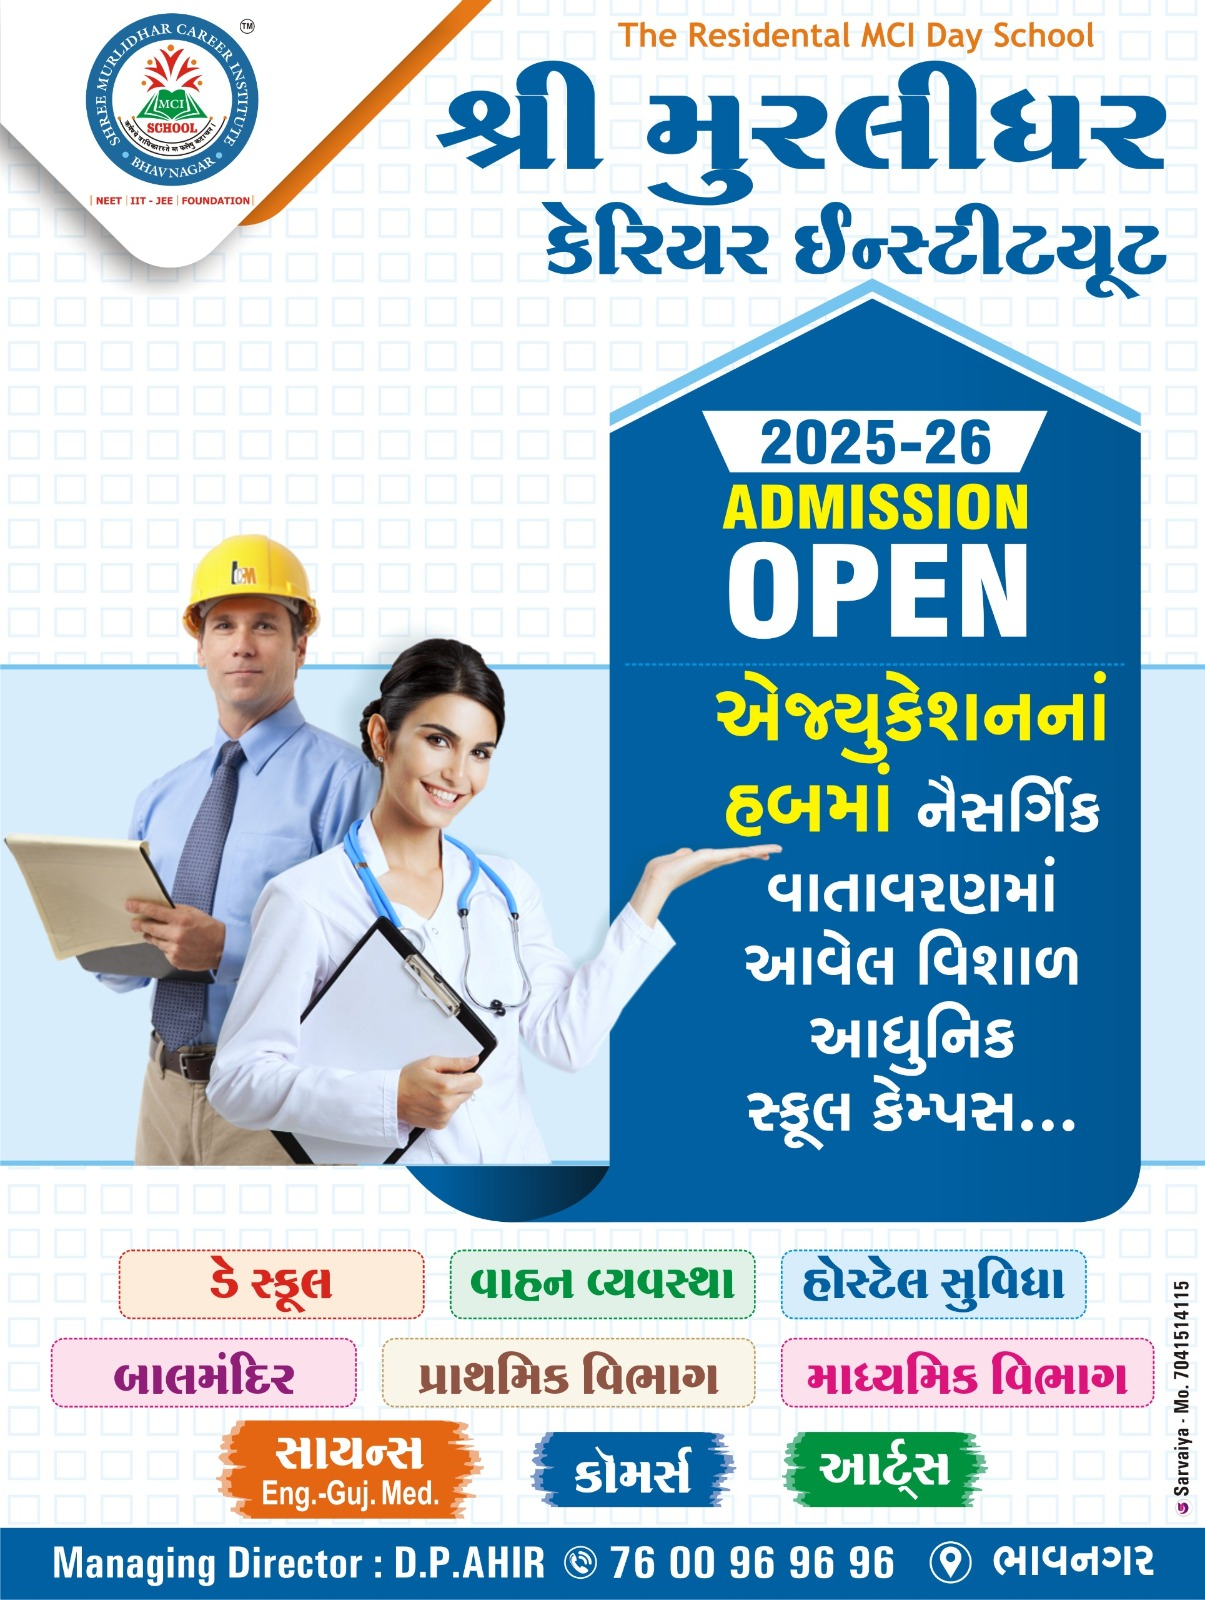
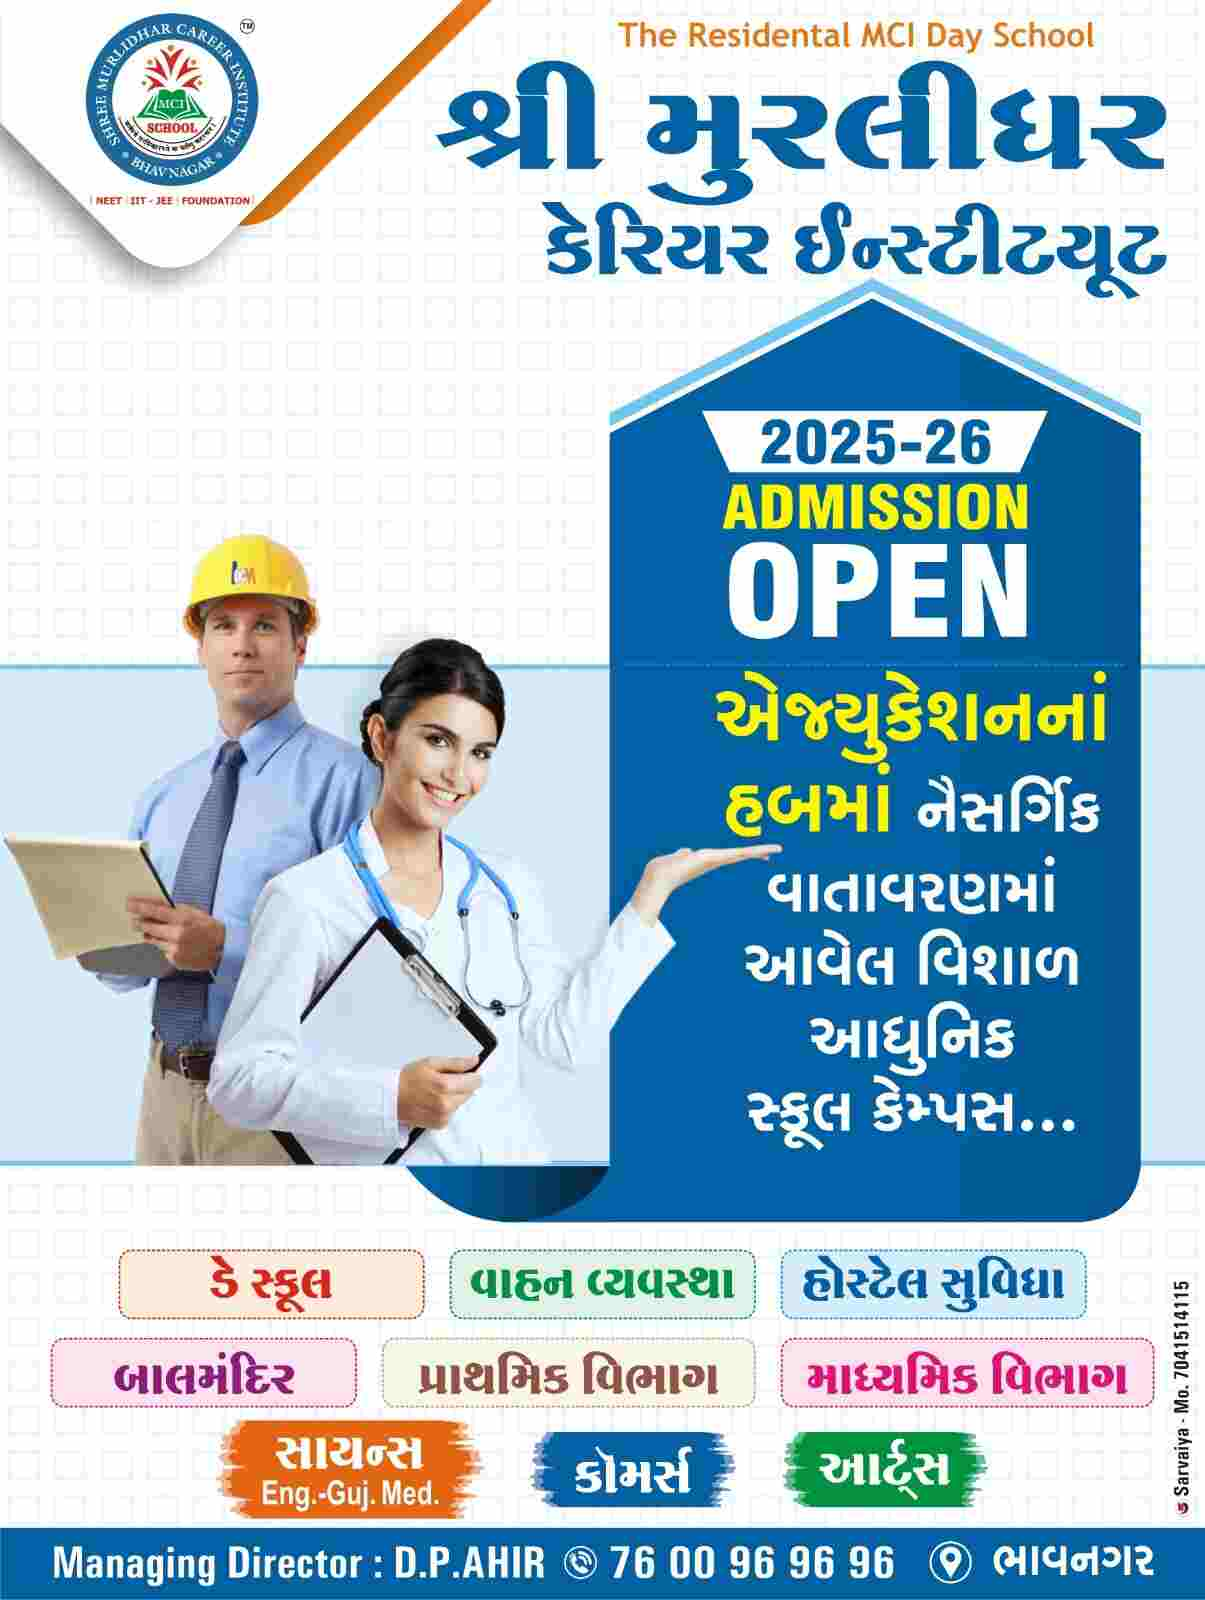
Compressed images changes

diff --git a/index.html b/index.html
@@ -174,7 +174,7 @@
               <article id="tabs-1">
                 <div class="row">
                   <div class="col-md-6">
-                    <img src="assets/images/qualityedu.JPG" alt="" />
+                    <img src="assets/images/qualityedu.JPG" alt="qualityedu" />
                   </div>
                   <div class="col-md-6">
                     <h4>Quality Education</h4>
@@ -191,7 +191,7 @@
               <article id="tabs-2">
                 <div class="row">
                   <div class="col-md-6">
-                    <img src="assets/images/lordkrishna.JPG" alt="" />
+                    <img src="assets/images/lordkrishna.JPG" alt="lordkrishna" />
                   </div>
                   <div class="col-md-6">
                     <h4>Top Management</h4>
@@ -210,7 +210,7 @@
               <article id="tabs-3">
                 <div class="row">
                   <div class="col-md-6">
-                    <img src="assets/images/qualitytech.png" alt="" />
+                    <img src="assets/images/qualitytech.png" alt="qualityteachers" />
                   </div>
                   <div class="col-md-6">
                     <h4>Quality Teachers</h4>
@@ -272,8 +272,9 @@
       <div class="hover-card">
         <img src="./assets/images/hostel2bed.JPG" alt="Image 1">
         <div class="info">
-          <h3>Hostel-A</h3>
+          <h3>Girls Hostel</h3>
           <p>Girls hostel with 24 X 7 security.</p>
+          <p>Girls Hostel with 120+ student capacity.</p>
         </div>
       </div>
 
@@ -281,19 +282,13 @@
       <div class="hover-card">
         <img src="./assets/images/hostel4bed.JPG" alt="Image 2">
         <div class="info">
-          <h3>Hostel-B</h3>
+          <h3>Boys Hostel</h3>
           <p>Boys hostel with 150+ student capacity</p>
         </div>
       </div>
 
       <!-- Card 3 -->
-      <div class="hover-card">
-        <img src="./assets/images/2schoolwan.JPG" alt="Image 3">
-        <div class="info">
-          <h3>Vehicle Facility</h3>
-          <p>Door to door vehicle facility in Bhavnagar.</p>
-        </div>
-      </div>
+      
     </div>
       <div class="card-container" style="margin-bottom: 3rem;">
 
@@ -307,18 +302,10 @@
       </div>
       <!-- card 5 -->
       <div class="hover-card">
-        <img src="./assets/images/boysclassrrom.JPG" alt="Image 5">
+        <img src="./assets/images/boysclassroom.JPG" alt="Image 5">
         <div class="info">
-          <h3>Classroom-A</h3>
-          <p>Night reading classrrom.</p>
-        </div>
-      </div>
-
-      <div class="hover-card">
-        <img src="./assets/images/girlsclassroom.JPG" alt="Image 6">
-        <div class="info">
-          <h3>Classroom-B</h3>
-          <p>Lecture classroom.</p>
+          <h3>Digital Classroom</h3>
+          <!-- <p>Night reading classrrom.</p> -->
         </div>
       </div>
 
@@ -327,24 +314,32 @@
       <div class="card-container">
 
         <!-- card 4 -->
-      <div class="hover-card">
+      <!-- <div class="hover-card">
         <img src="./assets/images/boysmess.JPG" alt="Image 7">
         <div class="info">
           <h3>Boys mess </h3>
           <p>Hygine + quality food.</p>
         </div>
       </div>
-      <!-- card 5 -->
-      <div class="hover-card">
+       card 5 -->
+      <!-- <div class="hover-card">
         <img src="./assets/images/girlsmess.JPG" alt="Image 8">
         <div class="info">
           <h3>Girls mess</h3>
           <p>Hygine + quality food.</p>
         </div>
+      </div> -->
+
+      <div class="hover-card">
+        <img src="./assets/images/2schoolwan.JPG" alt="Image 3">
+        <div class="info">
+          <h3>Vehicle Facility</h3>
+          <p>Door to door vehicle facility in Bhavnagar.</p>
+        </div>
       </div>
 
       <div class="hover-card">
-        <img src="./assets/images/main-slider-01.jpg" alt="Image 9">
+        <img src="./assets/images/playground.jpg" alt="Image 9">
         <div class="info">
           <h3>Playground</h3>
           <p>Badminton + vollleyBall + Cricket.(Indoor + Outerdoor)Games</p>
@@ -383,9 +378,9 @@
               Join us in celebrating the leadership and vision of D.P.Ahir, who continues to inspire and motivate
               students to dream big and achieve greatness!
             </p>
-            <div class="main-button">
+            <!-- <div class="main-button">
               <a rel="nofollow" href="https://youtu.be/xXK2b362_Tg " target="_blank">Watch on Youtube</a>
-            </div>
+            </div> -->
           </div>
         </div>
         <div class="col-md-6">
@@ -435,7 +430,7 @@
             </script> -->
 
           <div class="item">
-            <img src="assets/images/Admission2.jpg" alt="Course #1" />
+            <a href="assets/images/Admission2.jpg"><img src="assets/images/Admission2.jpg" alt="Course #1" /></a> 
             <!-- <div class="down-content">
                  <h4>Matematika</h4> -->
             <!-- <p>I'm startin' to feel some sort of way You give me goosebumps every day And when you look at me and
@@ -450,31 +445,31 @@
               </div> -->
           </div>
           <div class="item">
-            <img src="assets/images/Admission open.jpg" alt="Course #3" />
+            <a href="assets/images/Admission open.jpg"><img src="assets/images/Admission open.jpg" alt="Course #3" /></a> 
             <!-- <div class="down-content">
                 <h4>Pancasila</h4>
               </div> -->
           </div>
           <div class="item">
-            <img src="assets/images/Admission3.jpg" alt="Course #4" />
+           <a href="assets/images/Admission3.jpg"><img src="assets/images/Admission3.jpg" alt="Course #4" /></a> 
             <!-- <div class="down-content">
                 <h4>Kewarganegaraan</h4>
               </div> -->
           </div>
           <div class="item">
-            <img src="assets/images/Admission4.jpg" alt="Course #5" />
+           <a href="assets/images/Admission4.jpg"><img src="assets/images/Admission4.jpg" alt="Course #5" /></a> 
             <!-- <div class="down-content">
                 <h4>Olahraga</h4> 
               </div> -->
           </div>
           <div class="item">
-            <img src="assets/images/Admission5.jpg" alt="Course #6" />
+            <a href="assets/images/Admission5.jpg"><img src="assets/images/Admission5.jpg" alt="Course #6" /></a> 
             <!-- <div class="down-content">
                 <h4>Seni Budaya</h4>
               </div> -->
           </div>
           <div class="item">
-            <img src="assets/images/admission6.jpg" alt="Course #7" />
+            <a href="assets/images/admission6.jpg"><img src="assets/images/admission6.jpg" alt="Course #7" /></a> 
             <!-- <div class="down-content">
                 <h4>Bahasa Indonesia</h4>
               </div> -->
